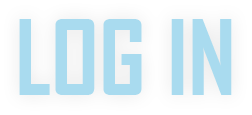
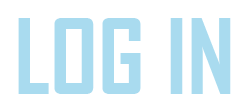
login button shining

diff --git a/Assets/Scripts/Network/LobbyConnectPanel.cs b/Assets/Scripts/Network/LobbyConnectPanel.cs
@@ -13,6 +13,8 @@ public class LobbyConnectPanel : MonoBehaviour {
 
     public RectTransform lobbyPanel;
 
+    public Button loginShowButton, signupShowButton;
+    public Sprite[] buttonImages;
     //public InputField ipInput;
 
     void Start()
@@ -21,7 +23,7 @@ public class LobbyConnectPanel : MonoBehaviour {
         DontDestroyOnLoad(gameObject);
 
         panelImage = GetComponent<Image>();
-
+        StartCoroutine("highlightButton");
     }
 
 
@@ -99,5 +101,25 @@ public class LobbyConnectPanel : MonoBehaviour {
         {
             OnClickJoin();
         }
+    }
+
+    IEnumerator highlightButton()
+    {
+        while (true)
+        {
+            loginShowButton.image.sprite = buttonImages[0];
+            signupShowButton.image.sprite = buttonImages[2];
+            yield return new WaitForSeconds(0.2f);
+            loginShowButton.image.sprite = buttonImages[1];
+            signupShowButton.image.sprite = buttonImages[3];
+            yield return new WaitForSeconds(0.5f);
+        }
+    }
+
+    public void StopHighlisht()
+    {
+        StopCoroutine("highlightButton");
+        loginShowButton.image.sprite = buttonImages[1];
+        signupShowButton.image.sprite = buttonImages[3];
     }
 }
